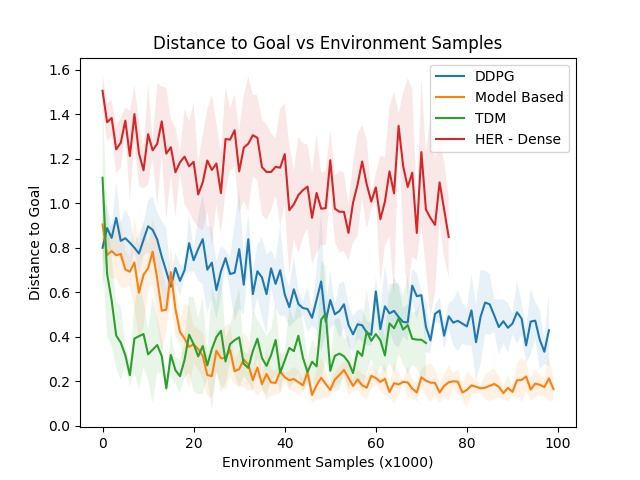
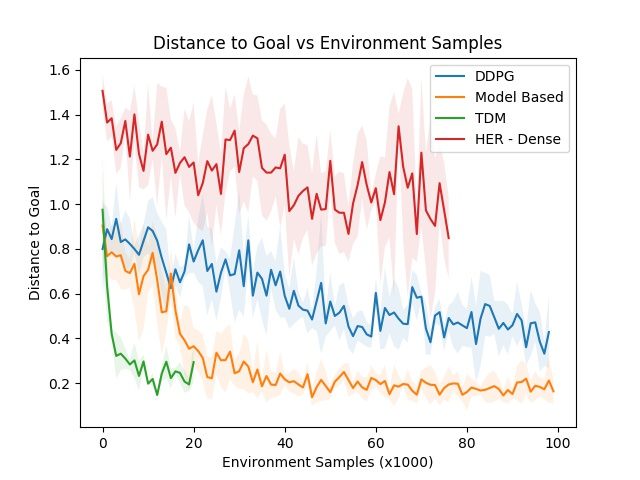
update pusher results

diff --git a/experiments/state_distance/iclr2018/pusher_results.py b/experiments/state_distance/iclr2018/pusher_results.py
@@ -20,6 +20,16 @@ our_criteria = {
     'algo_params.goal_dim_weights': [1, 1, 1, 1],
     'epoch_discount_schedule_params.value': 10,
 }
+our_path = "/home/vitchyr/git/rllab-rail/railrl/data/doodads3/10-26-sdql-pusher-xyxy-sweep-tau-scale-and-more/"
+our_criteria = {
+    # 'env_class.$class':
+    #     "railrl.envs.multitask.pusher2d.HandCylinderXYPusher2DEnv",
+    'algo_params.goal_dim_weights': [1, 1, 1, 1],
+    'algo_params.num_updates_per_env_step': 25,
+    'algo_params.discount': 15,
+    'env_class.$class':
+        "railrl.envs.multitask.pusher2d.HandCylinderXYPusher2DEnv"
+}
 her_dense_path = "/home/vitchyr/git/rllab-rail/railrl/data/doodads3/10-27-her-baseline-shaped-rewards-no-clipping-300-300-right-discount-and-tau/"
 her_dense_criteria = {
     'algo_params.num_updates_per_env_step': 1,
@@ -43,7 +53,7 @@ plt.figure()
 for trials, name, key in [
     (ddpg_trials, 'DDPG', base_key),
     (mb_trials, 'Model Based', base_key),
-    (our_trials, 'TDM', base_key),
+    (our_trials, 'TDM', 'test_'+base_key),
     (her_dense_trials, 'HER - Dense', 'test_'+base_key),
 ]:
     all_values = []
